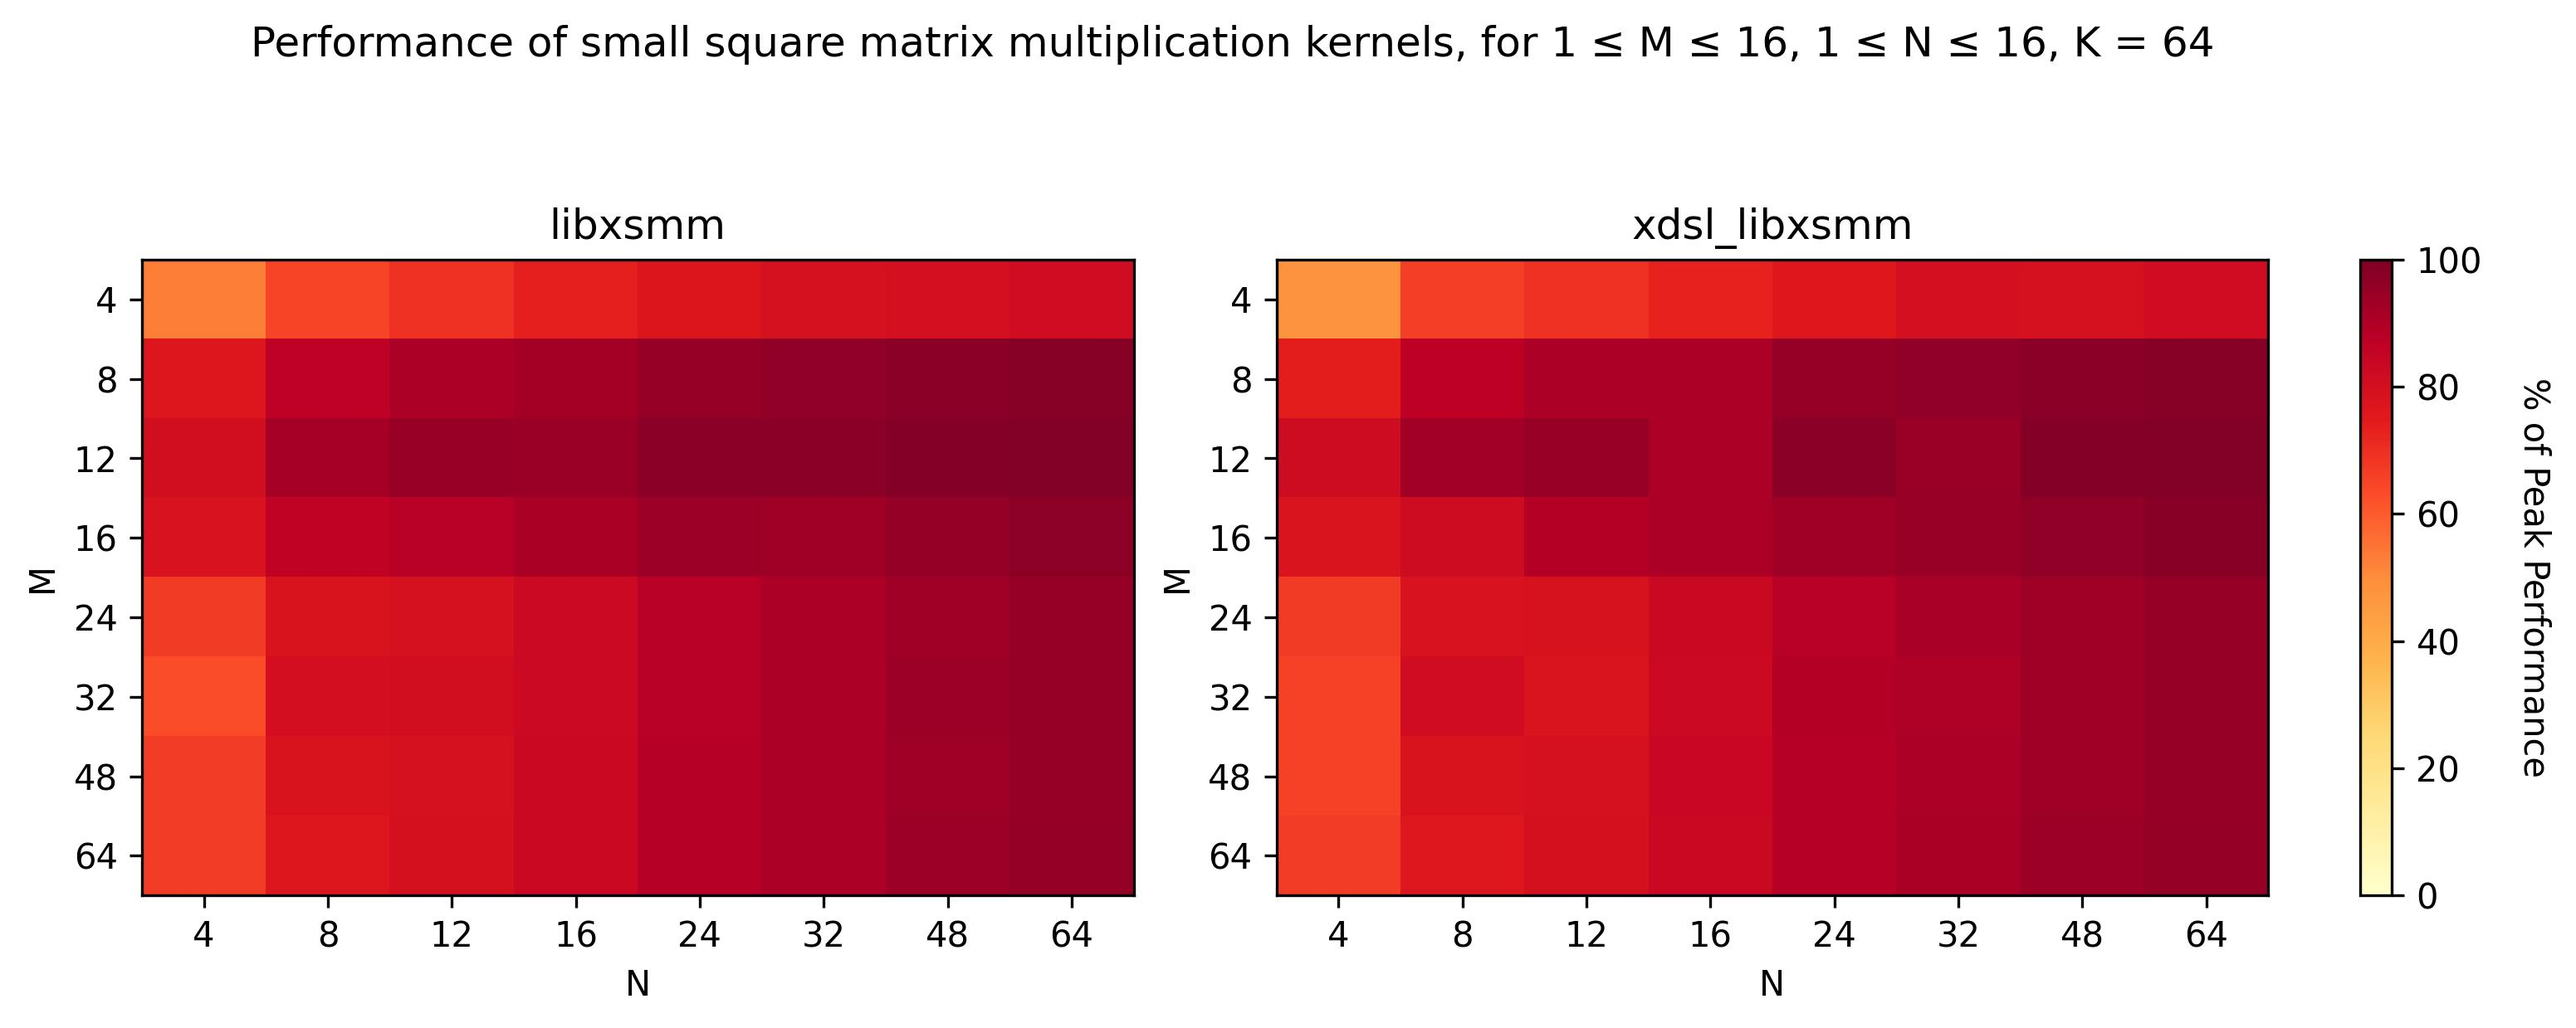
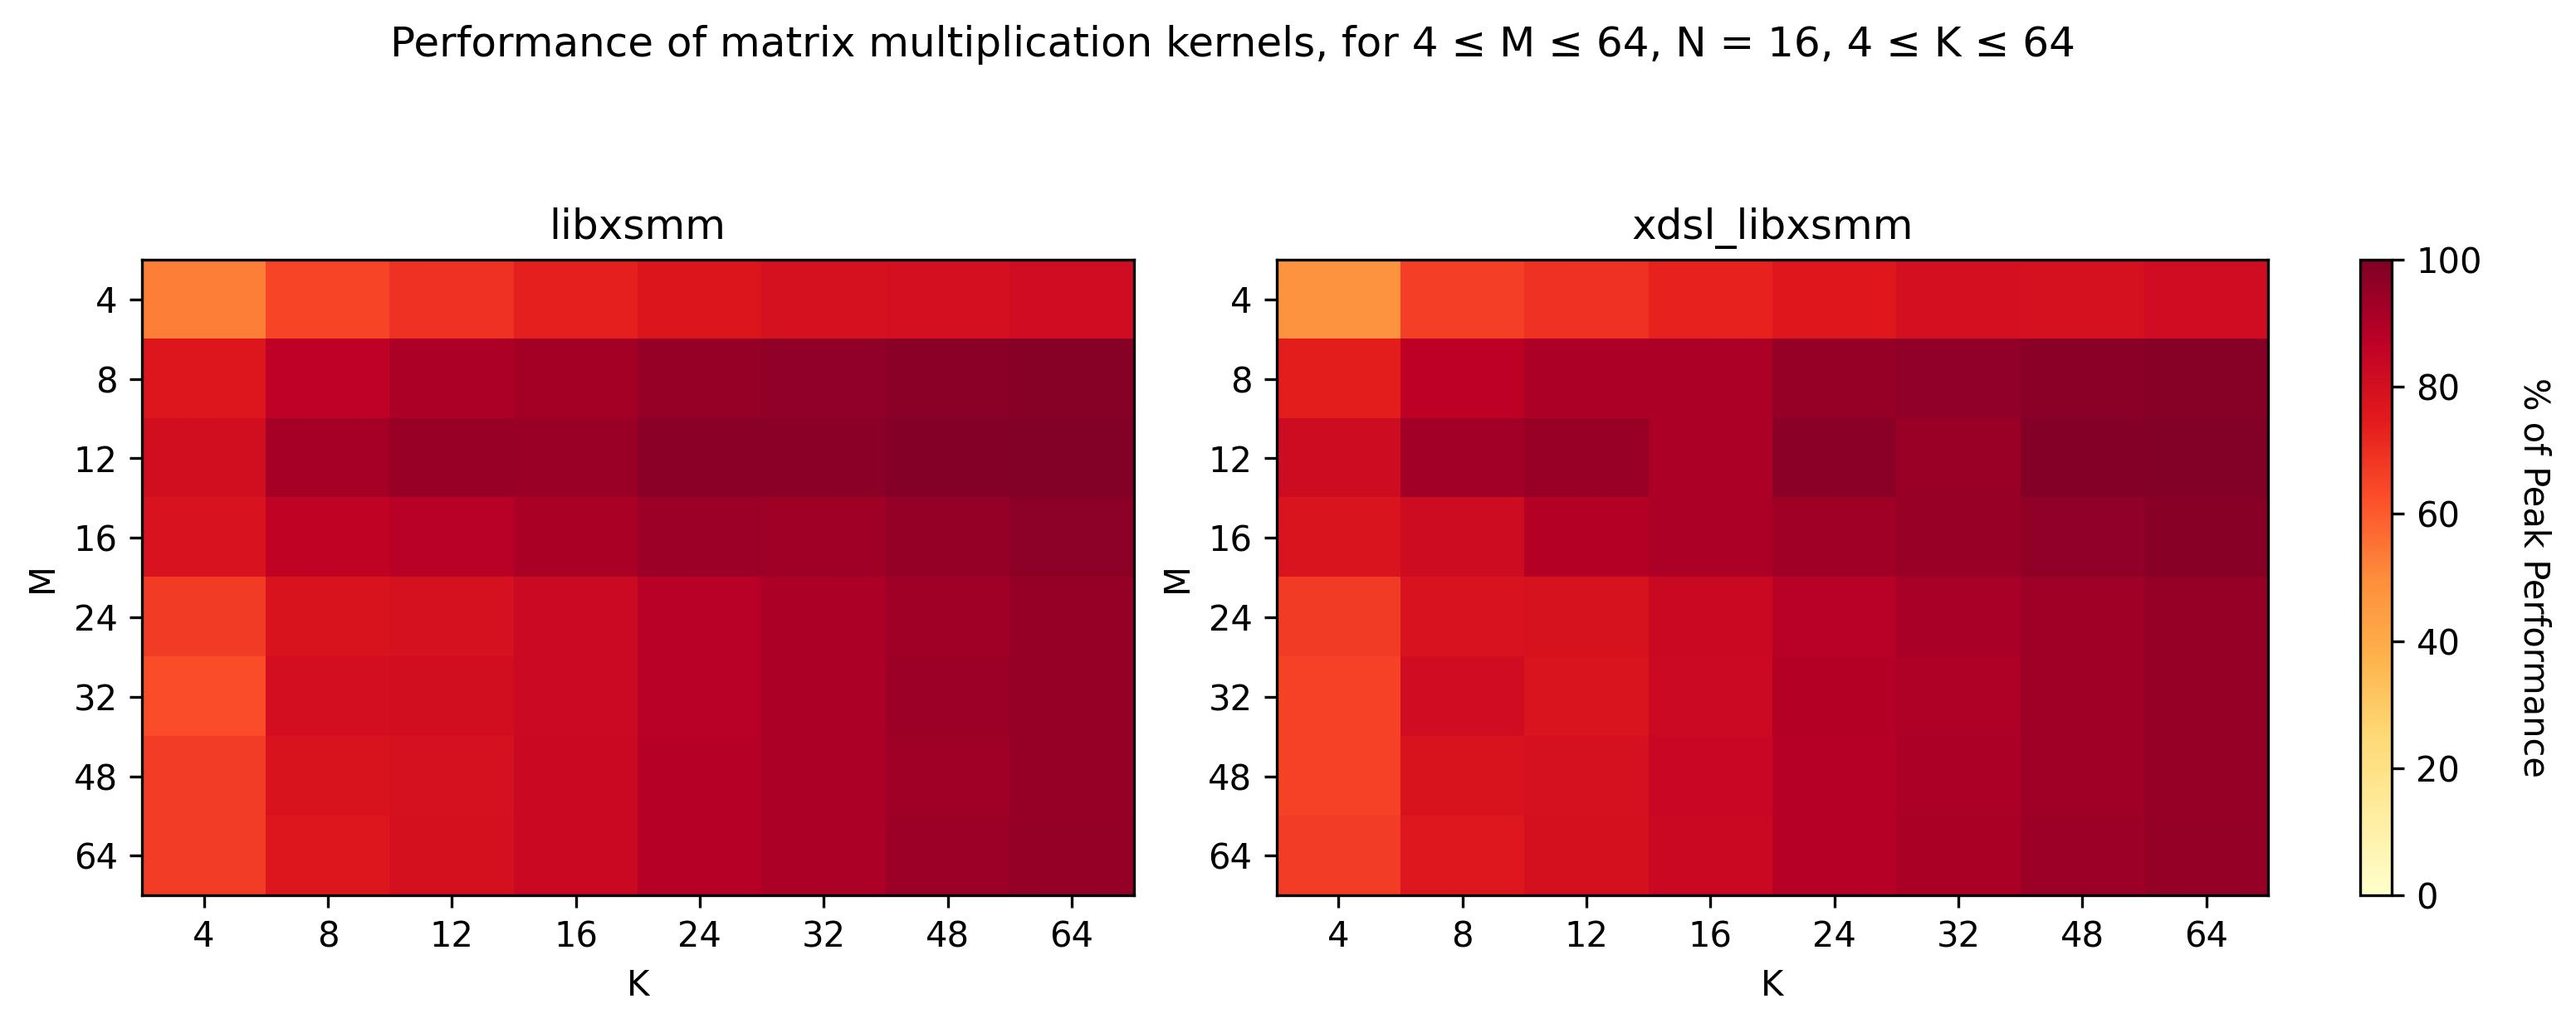
test fixes heatmap

Changed region(s): [[0.0928, 0.0307, 0.8663, 0.0613]]

diff --git a/src/autotuner/plot_heatmap.py b/src/autotuner/plot_heatmap.py
@@ -51,7 +51,7 @@ def plot_axis_heatmap(valid_data: pd.DataFrame, ax: Subplot, title: str):
     #                 color="black",
     #             )
 
-    ax.set_xlabel("N")
+    ax.set_xlabel("K" if col_dim == "K" else "N")
     ax.set_ylabel("M")
     ax.set_title(title)
 
@@ -85,10 +85,13 @@ def plot_heatmap_throughput_over_peak(
     for j in range(len(variants), len(axes.flat)):
         axes.flat[j].axis("off")
 
-    fig.suptitle(
-        "Performance of small square matrix multiplication kernels, for 1 ≤ M ≤ 16, 1 ≤ N ≤ 16, K = 64",
-        y=1.02,
-    )
+    if "N" in df.columns and df["N"].nunique() == 1 and df["N"].iloc[0] == 16:
+        config_title = "Performance of matrix multiplication kernels, for 4 ≤ M ≤ 64, N = 16, 4 ≤ K ≤ 64"
+    else:
+        config_title = "Performance of small square matrix multiplication kernels, for 1 ≤ M ≤ 16, 1 ≤ N ≤ 16, K = 64"
+
+    fig.suptitle(config_title, y=1.02)
+
     fig.tight_layout(rect=(0, 0, 1, 0.96))
 
     if ims:
